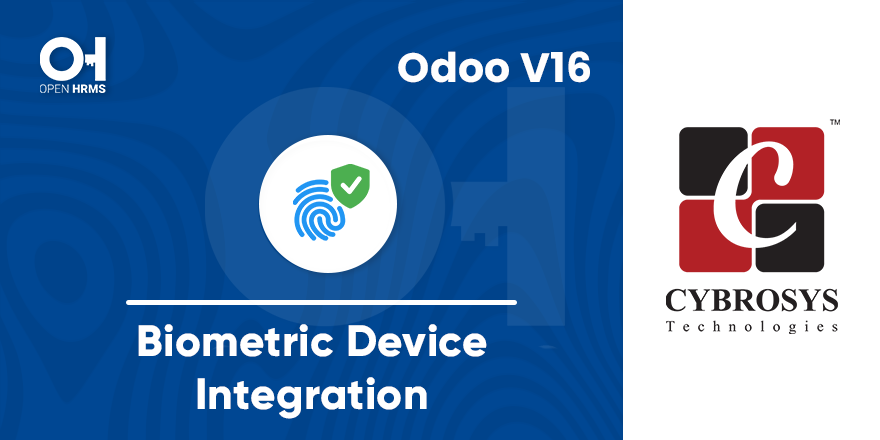
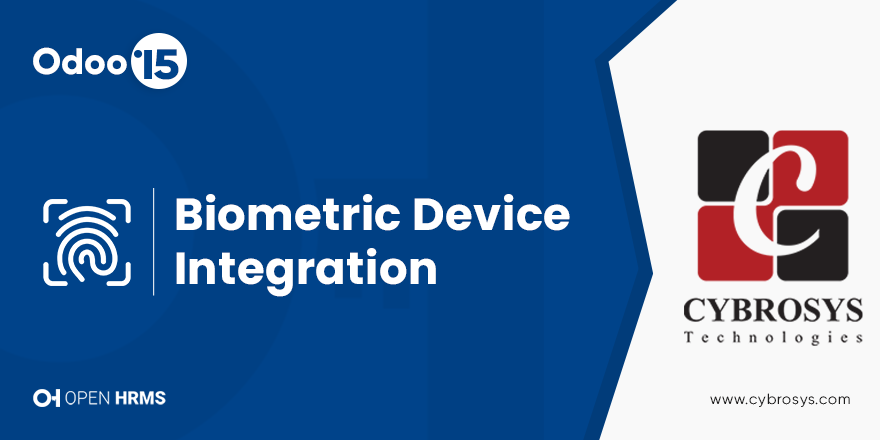
Oh_HR_ATT_DEVICE

diff --git a/oh_hr_zk_attendance/static/description/index.html b/oh_hr_zk_attendance/static/description/index.html
@@ -293,7 +293,7 @@
                     <div class="carousel-inner">
                         <div class="carousel-item active" style="min-height:0px">
                             <div class="col-xs-12 col-sm-4 col-md-4 mb16 mt16" style="float:left">
-                                <a href="https://apps.odoo.com/apps/modules/16.0/ohrms_core/" target="_blank">
+                                <a href="https://apps.odoo.com/apps/modules/15.0/ohrms_core/" target="_blank">
                                     <div style="border-radius:10px">
                                         <img class="img img-responsive center-block"
                                             style="border-top-left-radius:10px; border-top-right-radius:10px"
@@ -302,20 +302,11 @@
                                 </a>
                             </div>
                             <div class="col-xs-12 col-sm-4 col-md-4 mb16 mt16" style="float:left">
-                                <a href="https://apps.odoo.com/apps/modules/16.0/hr_multi_company/" target="_blank">
+                                <a href="https://apps.odoo.com/apps/modules/15.0/hr_multi_company/" target="_blank">
                                     <div style="border-radius:10px">
                                         <img class="img img-responsive center-block"
                                             style="border-top-left-radius:10px; border-top-right-radius:10px"
                                             src="./images/multi_image.png">
-                                    </div>
-                                </a>
-                            </div>
-                            <div class="col-xs-12 col-sm-4 col-md-4 mb16 mt16" style="float:left">
-                                <a href="https://apps.odoo.com/apps/modules/16.0/hr_employee_updation/" target="_blank">
-                                    <div style="border-radius:10px">
-                                        <img class="img img-responsive center-block"
-                                             style="border-top-left-radius:10px; border-top-right-radius:10px"
-                                             src="./images/info_image.png">
                                     </div>
                                 </a>
                             </div>
@@ -336,6 +327,15 @@
                                         <img class="img img-responsive center-block"
                                             style="border-top-left-radius:10px; border-top-right-radius:10px"
                                             src="./images/appraisal_image.png">
+                                    </div>
+                                </a>
+                            </div>
+                            <div class="col-xs-12 col-sm-4 col-md-4 mb16 mt16" style="float:left">
+                                <a href="https://apps.odoo.com/apps/modules/15.0/hr_employee_updation/" target="_blank">
+                                    <div style="border-radius:10px">
+                                        <img class="img img-responsive center-block"
+                                            style="border-top-left-radius:10px; border-top-right-radius:10px"
+                                            src="./images/info_image.png">
                                     </div>
                                 </a>
                             </div>

diff --git a/oh_hr_zk_attendance/__manifest__.py b/oh_hr_zk_attendance/__manifest__.py
@@ -3,7 +3,7 @@
 #
 #    Cybrosys Technologies Pvt. Ltd.
 #
-#    Copyright (C) 2022-TODAY Cybrosys Technologies(<https://www.cybrosys.com>)
+#    Copyright (C) 2021-TODAY Cybrosys Technologies(<https://www.cybrosys.com>)
 #    Author: Cybrosys Techno Solutions(<https://www.cybrosys.com>)
 #
 #    You can modify it under the terms of the GNU LESSER
@@ -21,7 +21,7 @@
 #############################################################################
 {
     'name': 'Open HRMS Biometric Device Integration',
-    'version': '16.0.1.0.0',
+    'version': '15.0.1.1.0',
     'summary': """Integrating Biometric Device With HR Attendance (Face + Thumb)""",
     'description': 'This module integrates Odoo with the biometric device(Model: ZKteco uFace 202)',
     'category': 'Generic Modules/Human Resources',

diff --git a/oh_hr_zk_attendance/__init__.py b/oh_hr_zk_attendance/__init__.py
@@ -3,7 +3,7 @@
 #
 #    Cybrosys Technologies Pvt. Ltd.
 #
-#    Copyright (C) 2022-TODAY Cybrosys Technologies(<https://www.cybrosys.com>)
+#    Copyright (C) 2021-TODAY Cybrosys Technologies(<https://www.cybrosys.com>)
 #    Author: Cybrosys Techno Solutions(<https://www.cybrosys.com>)
 #
 #    You can modify it under the terms of the GNU LESSER

diff --git a/oh_hr_zk_attendance/models/__init__.py b/oh_hr_zk_attendance/models/__init__.py
@@ -3,7 +3,7 @@
 #
 #    Cybrosys Technologies Pvt. Ltd.
 #
-#    Copyright (C) 2022-TODAY Cybrosys Technologies(<https://www.cybrosys.com>)
+#    Copyright (C) 2021-TODAY Cybrosys Technologies(<https://www.cybrosys.com>)
 #    Author: Cybrosys Techno Solutions(<https://www.cybrosys.com>)
 #
 #    You can modify it under the terms of the GNU LESSER

diff --git a/oh_hr_zk_attendance/models/zk_machine.py b/oh_hr_zk_attendance/models/zk_machine.py
@@ -3,7 +3,7 @@
 #
 #    Cybrosys Technologies Pvt. Ltd.
 #
-#    Copyright (C) 2022-TODAY Cybrosys Technologies(<https://www.cybrosys.com>)
+#    Copyright (C) 2021-TODAY Cybrosys Technologies(<https://www.cybrosys.com>)
 #    Author: Cybrosys Techno Solutions(<https://www.cybrosys.com>)
 #
 #    You can modify it under the terms of the GNU LESSER

diff --git a/oh_hr_zk_attendance/README.rst b/oh_hr_zk_attendance/README.rst
@@ -1,4 +1,4 @@
-Biometric Device Integration v16
+Biometric Device Integration v15
 ================================
 This Cybrosys's module integrates Odoo attendance with biometric device attendance.
 
@@ -29,11 +29,10 @@ Author
 
 Credits
 =======
-Developer: Jesni Banu @ cybrosys, jesni@cybrosys.in  V10
 Developer: Niyas Raphy @ Cybrosys, niyas@cybrosys.in V11
+Developer: Jesni Banu @ cybrosys, jesni@cybrosys.in  V10
 Developer: Basith @ Cybrosys, basith@cybrosys.in     V12
 Developer: IJaz @ Cybrosys, ijaz@cybrosys.in     V14
 Developer: Midilaj @ Cybrosys, midilaj@cybrosys.in V15
-Developer: Minhaj @ Cybrosys, minhaj@cybrosys.in V16
 Developer: Mostafa Shokiel , mostafa.shokiel@gmail.com
 

diff --git a/oh_hr_zk_attendance/doc/RELEASE_NOTES.md b/oh_hr_zk_attendance/doc/RELEASE_NOTES.md
@@ -1,6 +1,6 @@
 ## Module <oh_hr_zk_attendance>
 
-#### 01.11.2022
-#### Version 16.0.1.0.0
+#### 29.11.2021
+#### Version 15.0.1.0.0
 ##### ADD
 - Initial commit
